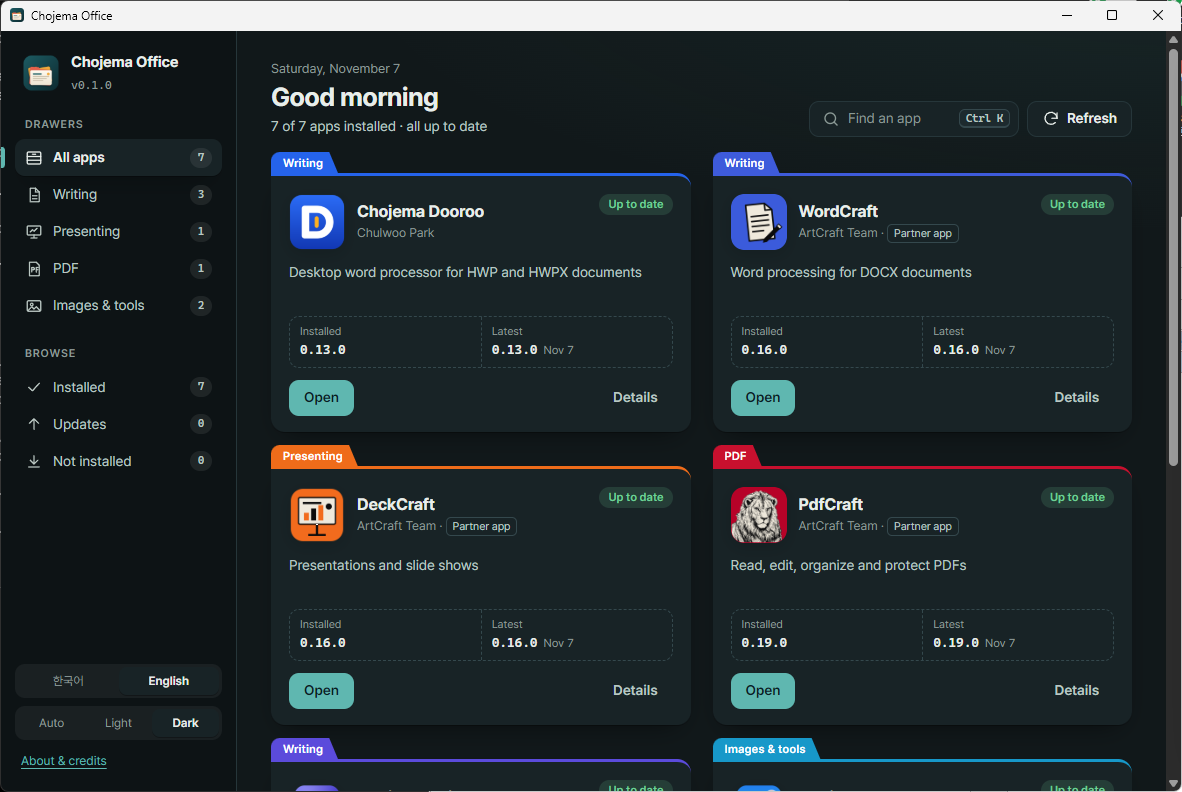
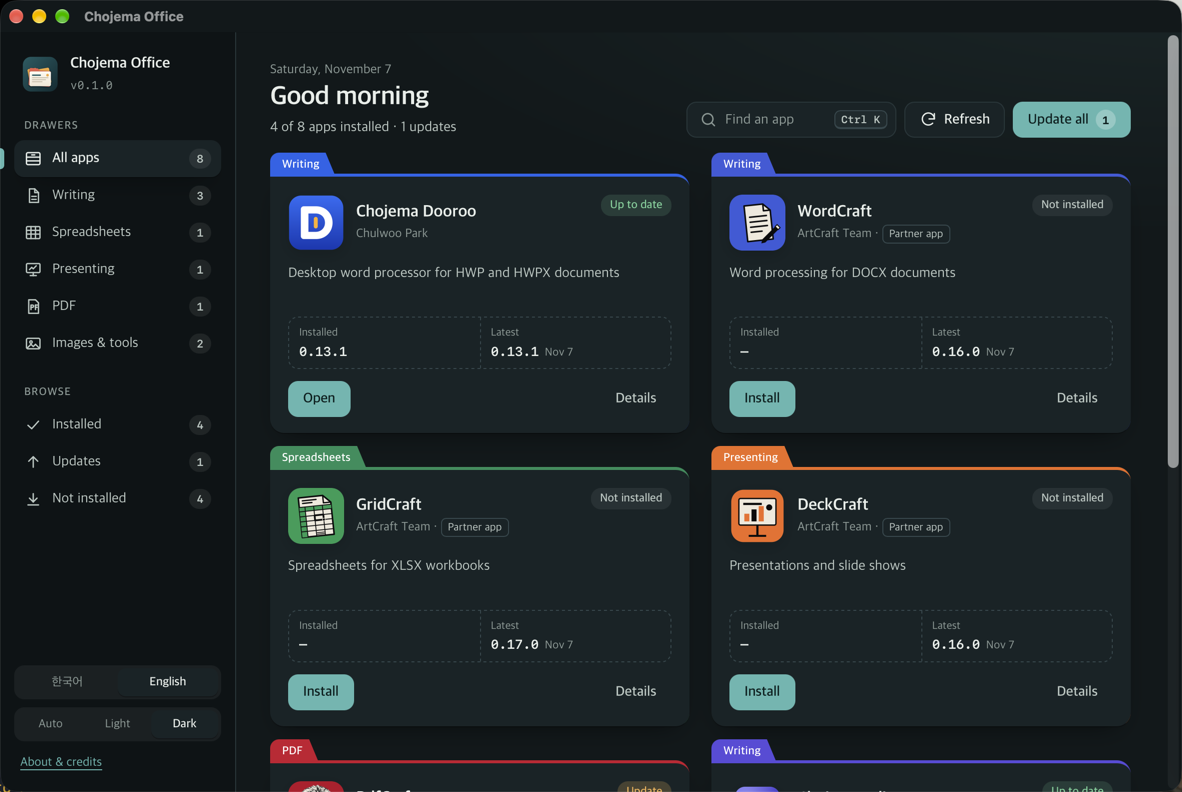
Rename README app table columns, refine two descriptions, retake screenshots

diff --git a/README.md b/README.md
@@ -36,13 +36,13 @@
 
 ## 포함된 앱
 
-| 서랍 | 앱 | 하는 일 | 만든 이 |
+| 구분 | 이름 | 용도 | 작성 |
 |---|---|---|---|
 | 문서 작성 | [Chojema Dooroo](https://github.com/chojema/ChojemaDooroo) | HWP·HWPX 문서를 위한 데스크톱 워드 프로세서 | Chulwoo Park |
 | 문서 작성 | [WordCraft](https://github.com/storytold/wordcraft) | DOCX 문서 작성과 편집 | ArtCraft Team(외부 앱) |
-| 문서 작성 | [Chojema Editor](https://github.com/chojema/chojema-editor) | 마크다운·HTML 위지윅 편집을 지원하는 텍스트 편집기 | Chulwoo Park |
+| 문서 작성 | [Chojema Editor](https://github.com/chojema/chojema-editor) | 마크다운, HTML 등의 위지윅 편집을 지원하는 텍스트 편집기 | Chulwoo Park |
 | 스프레드시트 | [GridCraft](https://github.com/storytold/gridcraft) | XLSX 스프레드시트 작성과 계산 | ArtCraft Team(외부 앱) |
-| 발표 | [DeckCraft](https://github.com/storytold/deckcraft) | 프레젠테이션과 슬라이드 쇼 | ArtCraft Team(외부 앱) |
+| 발표 | [DeckCraft](https://github.com/storytold/deckcraft) | PPTX 프레젠테이션과 슬라이드 쇼 | ArtCraft Team(외부 앱) |
 | PDF | [PdfCraft](https://github.com/storytold/pdfcraft) | PDF 읽기·편집·정리·보호 | ArtCraft Team(외부 앱) |
 | 이미지 도구 | [Chojema Image+](https://github.com/chojema/ChojemaImagePlus) | 가볍고 빠른 이미지 뷰어 | Chulwoo Park |
 | 이미지 도구 | [Chojema KeyStamp](https://github.com/chojema/chojema-keystamp) | 키캡 이미지와 애니메이션 만들기 | Chulwoo Park |

diff --git a/README.en.md b/README.en.md
@@ -36,13 +36,13 @@ ones you have and which version, installs the right build for your computer, and
 
 ## The apps
 
-| Drawer | App | What it does | Made by |
+| Category | Name | Purpose | Author |
 |---|---|---|---|
 | Writing | [Chojema Dooroo](https://github.com/chojema/ChojemaDooroo) | Desktop word processor for HWP and HWPX documents | Chulwoo Park |
 | Writing | [WordCraft](https://github.com/storytold/wordcraft) | Word processing for DOCX documents | ArtCraft Team (partner app) |
-| Writing | [Chojema Editor](https://github.com/chojema/chojema-editor) | Text editor with WYSIWYG Markdown and HTML editing | Chulwoo Park |
+| Writing | [Chojema Editor](https://github.com/chojema/chojema-editor) | Text editor with WYSIWYG editing for Markdown, HTML and more | Chulwoo Park |
 | Spreadsheets | [GridCraft](https://github.com/storytold/gridcraft) | Spreadsheets for XLSX workbooks | ArtCraft Team (partner app) |
-| Presenting | [DeckCraft](https://github.com/storytold/deckcraft) | Presentations and slide shows | ArtCraft Team (partner app) |
+| Presenting | [DeckCraft](https://github.com/storytold/deckcraft) | PPTX presentations and slide shows | ArtCraft Team (partner app) |
 | PDF | [PdfCraft](https://github.com/storytold/pdfcraft) | Read, edit, organize and protect PDFs | ArtCraft Team (partner app) |
 | Images & tools | [Chojema Image+](https://github.com/chojema/ChojemaImagePlus) | Lightweight, fast image viewer | Chulwoo Park |
 | Images & tools | [Chojema KeyStamp](https://github.com/chojema/chojema-keystamp) | Create keycap images and animations | Chulwoo Park |
